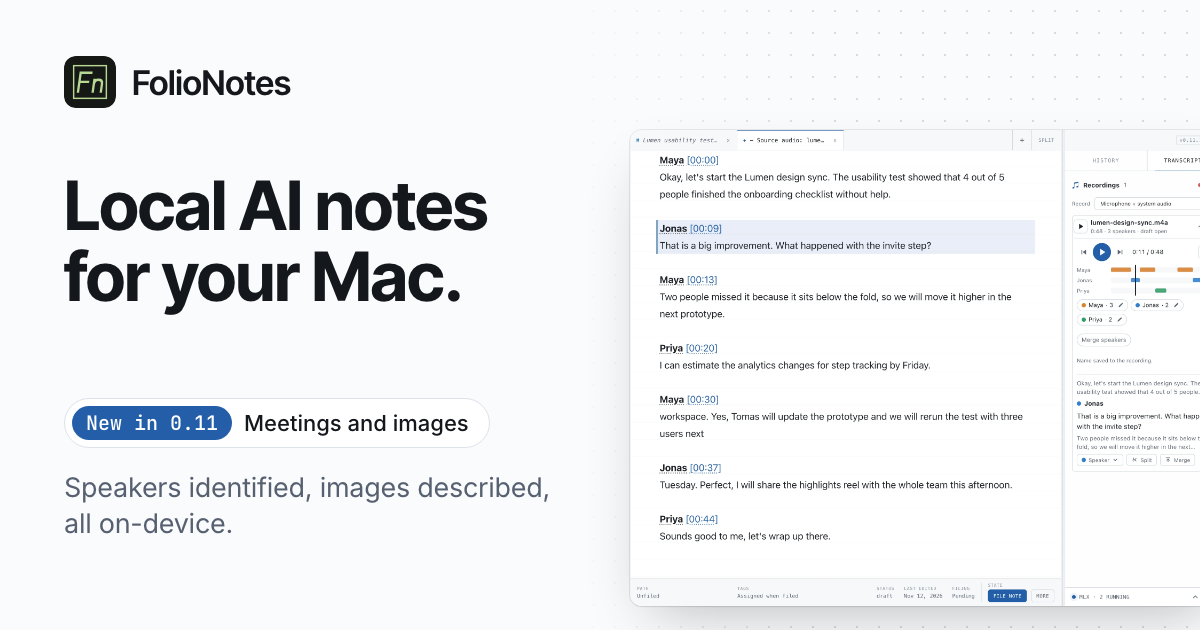
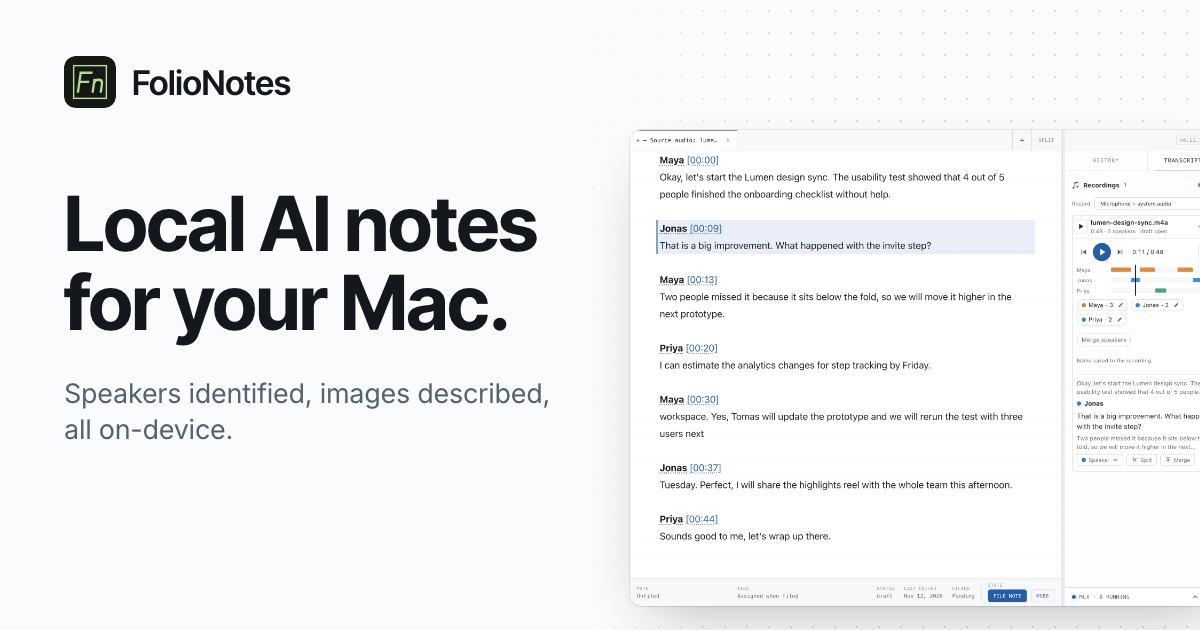
docs(site): add feature close-ups and punchier copy
Drop the version pill from the hero and share image, tighten the copy
and move technical detail to Requirements and FAQ. Show the speaker
player close-up, give OCR and image descriptions equal billing with
toolbar-to-result close-ups, and show the NO/EN toggle with a
before/after of the same demo note. Add the matching capture steps.

diff --git a/site/index.html b/site/index.html
@@ -4,7 +4,7 @@
 <meta charset="utf-8">
 <meta name="viewport" content="width=device-width, initial-scale=1">
 <title>FolioNotes — local AI notes for your Mac</title>
-<meta name="description" content="FolioNotes is a local-first Mac notetaker. One capture field, an on-device model files your notes as plain Markdown. Now with meeting recording, speaker identification, image descriptions, OCR and note translation, all on your Mac.">
+<meta name="description" content="FolioNotes is a local-first Mac notetaker. One capture field, an on-device model files your notes as plain Markdown. Record meetings with speaker names, read and describe your images, translate notes. All on your Mac.">
 <link rel="canonical" href="https://folionotes.no/">
 <meta name="color-scheme" content="light">
 <meta name="theme-color" content="#fafbfc">
@@ -12,14 +12,14 @@
 <meta property="og:type" content="website">
 <meta property="og:site_name" content="FolioNotes">
 <meta property="og:title" content="FolioNotes — local AI notes for your Mac">
-<meta property="og:description" content="Capture in one field. A local model files it as plain Markdown on your Mac. New: record and transcribe meetings with speaker names, describe images, OCR and translation.">
+<meta property="og:description" content="Capture in one field. A local model files it as plain Markdown on your Mac. Record meetings with speaker names, read and describe images, translate notes.">
 <meta property="og:url" content="https://folionotes.no/">
 <meta property="og:image" content="https://folionotes.no/assets/og-image.png">
 <meta property="og:image:width" content="1200">
 <meta property="og:image:height" content="630">
 <meta name="twitter:card" content="summary_large_image">
 <meta name="twitter:title" content="FolioNotes — local AI notes for your Mac">
-<meta name="twitter:description" content="Capture in one field. A local model files it as plain Markdown on your Mac. New: record and transcribe meetings with speaker names, describe images, OCR and translation.">
+<meta name="twitter:description" content="Capture in one field. A local model files it as plain Markdown on your Mac. Record meetings with speaker names, read and describe images, translate notes.">
 <meta name="twitter:image" content="https://folionotes.no/assets/og-image.png">
 <link rel="preconnect" href="https://fonts.googleapis.com">
 <link rel="preconnect" href="https://fonts.gstatic.com" crossorigin>
@@ -32,16 +32,15 @@
 <header class="nav">
   <div class="nav-in">
     <a class="nav-brand" href="#top" aria-label="FolioNotes home"><svg class="mark" viewBox="0 0 1024 1024" width="22" height="22" aria-hidden="true"><rect width="1024" height="1024" rx="220" fill="#161816"/><rect x="190" y="190" width="644" height="644" fill="none" stroke="#b7d892" stroke-width="28"/><g transform="translate(85 0) skewX(-8)" fill="none" stroke="#b7d892" stroke-width="46" stroke-linecap="square" stroke-linejoin="miter"><path d="M290 700V330H500M290 510H460"/><path d="M580 700V470M580 545C580 495 615 468 660 468C710 468 740 500 740 552V700"/></g></svg><span>FolioNotes</span></a>
-    <nav aria-label="Primary"><ul><li><a href="#overview">Overview</a></li><li><a href="#new">New in 0.11</a></li><li><a href="#features">Features</a></li><li><a href="#privacy">Privacy</a></li><li><a href="#specs">Requirements</a></li><li><a href="#faq">FAQ</a></li></ul></nav>
+    <nav aria-label="Primary"><ul><li><a href="#overview">Overview</a></li><li><a href="#ai">AI features</a></li><li><a href="#features">Features</a></li><li><a href="#privacy">Privacy</a></li><li><a href="#specs">Requirements</a></li><li><a href="#faq">FAQ</a></li></ul></nav>
     <a class="nav-dl" href="https://github.com/magwest1/folio/releases/latest/download/FolioNotes-arm64.dmg">Download</a>
   </div>
 </header>
 <main id="main">
 <section class="hero" id="top">
   <div class="hero-text">
-    <a class="pill" href="#new"><b>New in 0.11</b> Meetings and images</a>
     <h1>Capture once.<br>Your Mac files it.</h1>
-    <p class="sub">One Markdown capture field. A model running on your Mac decides where each note goes. Everything stays as plain files in a folder you own.</p>
+    <p class="sub">Type it once. Your Mac decides where it goes. Everything stays as plain files in a folder you own.</p>
     <div class="cta"><a class="btn btn-primary" href="https://github.com/magwest1/folio/releases/latest/download/FolioNotes-arm64.dmg"><svg class="ico" viewBox="0 0 24 24" width="18" height="18" fill="none" stroke="currentColor" stroke-width="2" stroke-linecap="round" stroke-linejoin="round" aria-hidden="true"><path d="M12 4v11M7 11l5 5 5-5M5 20h14"/></svg>Download for Mac</a><a class="btn btn-secondary" href="https://github.com/magwest1/folio">View on GitHub<svg class="ico" viewBox="0 0 24 24" width="16" height="16" fill="none" stroke="currentColor" stroke-width="2" stroke-linecap="round" stroke-linejoin="round" aria-hidden="true"><path d="M7 17L17 7M8 7h9v9"/></svg></a></div>
     <p class="fine">Apple Silicon · macOS 14 or later</p>
     <p class="fine"><span id="release-info" hidden></span> <a href="https://github.com/magwest1/folio/releases">All releases</a></p>
@@ -53,7 +52,7 @@
 <section class="band statement" id="overview" aria-labelledby="st-h">
   <div class="wrap center" id="privacy">
     <h2 id="st-h" class="huge m reveal">Your notes stay<br>on your Mac.</h2>
-    <p class="lead reveal">Filing, search, answers, transcription, speaker identification, image descriptions, OCR and translation all run on models stored on your machine. No account, no cloud service, no analytics.</p>
+    <p class="lead reveal">Filing, search, answers, meetings, images and translation all run on your Mac. No account. No cloud. No analytics.</p>
     <dl class="stats reveal">
       <div><dt>accounts</dt><dd>0</dd></div>
       <div><dt>cloud services</dt><dd>0</dd></div>
@@ -64,53 +63,61 @@
 </section>
 
 <section class="band alt" id="filing" aria-labelledby="filing-h"><div class="wrap look split">
-<div class="look-text reveal"><p class="eyebrow">Local LLM filing</p><h2 id="filing-h">One field. The model files it. You confirm.</h2><p>Press <kbd>Cmd</kbd> <kbd>Enter</kbd> and the selected local model reads the whole note and proposes a path, title, type and tags. Every capture stays one note; it is never split apart.</p><ul class="ticks"><li>Reuses your existing folders and tags instead of inventing new ones</li><li>Todos append to one todo list, daily notes to a note per day</li><li>Nothing is saved until you accept the proposal</li></ul></div>
+<div class="look-text reveal"><p class="eyebrow">Local LLM filing</p><h2 id="filing-h">One field. Filed for you.</h2><p>Write or paste, then press <kbd>Cmd</kbd> <kbd>Enter</kbd>. FolioNotes proposes a folder, title and tags. You say yes.</p><ul class="ticks"><li>Reuses your folders and tags</li><li>Todos land on one list, daily notes get a page per day</li><li>Nothing is saved until you accept</li></ul></div>
 <div class="look-media reveal"><img src="assets/screenshots/filing-dialog-light.webp" alt="The filing dialog proposing a path, title, type and tags for a note" width="1176" height="842" loading="lazy" decoding="async"></div></div></section>
 
-<section class="band" id="new" aria-labelledby="new-h">
+<section class="band" id="ai" aria-labelledby="meet-h"><div class="wrap look split">
+<div class="look-text reveal"><p class="eyebrow">On-device AI</p><h2 id="meet-h">Record it. Know who said what.</h2><p>Hit record on a call or drop in a file. Your Mac turns it into a transcript and labels every speaker. The audio never leaves your Mac.</p><ul class="ticks"><li><strong>A lane for every voice.</strong> See who spoke and when.</li><li><strong>Name them once.</strong> Every mention follows.</li><li><strong>Jump to any turn,</strong> or solo one speaker.</li><li><strong>Fix a wrong label</strong> in a click.</li></ul></div>
+<div class="look-media reveal"><img src="assets/screenshots/player-light.webp" class="tall" alt="The meeting player: play controls, one timeline lane per speaker with a playhead, colored speaker chips, a Merge speakers button and the current turn with Speaker, Split and Merge buttons" width="550" height="780" loading="lazy" decoding="async"></div></div></section>
+
+<section class="band alt" id="images" aria-labelledby="img-h">
   <div class="wrap">
-    <div class="new-head reveal"><p class="eyebrow">New in 0.11</p><h2 id="new-h" class="section-h">Meetings and images, understood on your Mac.</h2></div>
-    <div class="pair">
-      <article class="card reveal">
-        <h3>Record a meeting. Know who said what.</h3>
-        <p>Record the microphone, or in the desktop app also system audio, or import a file. Whisper transcribes on your Mac with a <code>[mm:ss]</code> timestamp on every paragraph.</p>
-        <ul class="ticks"><li>With the optional Sortformer model, up to 4 speakers are identified on-device</li><li>Rename or merge speakers; names are note variables, so every reference follows</li><li>Play the recording back in sync, jump between turns or solo one speaker</li></ul>
-        <p class="fine">Whisper large-v3-turbo about 1.61 GB, Sortformer about 236 MB. Both are optional downloads. System audio needs macOS 14.2 or later.</p>
-        <img src="assets/screenshots/transcription-crop-light.webp" alt="A meeting transcript with named speaker turns beside the player, which shows one lane per speaker, a playhead and speaker chips" width="2248" height="1782" loading="lazy" decoding="async">
+    <div class="new-head reveal"><p class="eyebrow">On-device AI</p><h2 id="img-h" class="section-h">Your images, understood.</h2><p class="lead sub-lead">Hover any image in a note. Two buttons do the rest.</p></div>
+    <div class="pair halves">
+      <article class="card half reveal">
+        <h3>Read the text.</h3>
+        <p>Recipe cards, slides, receipts, screenshots. Turn the words in a photo into text you can edit and search.</p>
+        <figure class="step"><figcaption><b>1</b> Click <em>Extract text</em></figcaption><div class="tool" style="--pos:71.4%"><span class="tool-label">Extract text</span><img src="assets/screenshots/ocr-toolbar-light.webp" alt="Close-up of the image toolbar over a recipe card photo: Copy, Download, Delete, Extract text (highlighted) and Describe image icons" width="440" height="172" loading="lazy" decoding="async"></div></figure>
+        <figure class="step"><figcaption><b>2</b> Copy it or insert it below</figcaption><img src="assets/screenshots/ocr-result-light.webp" alt="The extracted recipe text as Markdown with Copy, Insert below and Close buttons" width="1410" height="498" loading="lazy" decoding="async"></figure>
       </article>
-      <article class="card reveal">
-        <h3>See what is in your images.</h3>
-        <p>Choose Describe image in an image toolbar and a local vision model writes a short description for you to copy, insert below the image or use as alt text.</p>
-        <ul class="ticks"><li>Gemma 4 E4B or Qwen 3.5 4B, chosen in Settings &rarr; Models; no extra download if it is already installed</li><li>Descriptions are cached and searchable, like text extracted with LightOnOCR 3 1B</li><li>OCR tables become Markdown tables, and Download image saves the file</li></ul>
-        <p class="fine">Runs through MLX on your Mac. The image never leaves it.</p>
-        <img src="assets/screenshots/describe-crop-light.webp" alt="A whiteboard photo in a note with a generated image description below it and Copy, Insert below, Use as alt text and Close buttons" width="1514" height="1282" loading="lazy" decoding="async">
+      <article class="card half reveal">
+        <h3>Describe the picture.</h3>
+        <p>Whiteboards, sketches, photos. Get a short description for alt text, or so you can find the image later.</p>
+        <figure class="step"><figcaption><b>1</b> Click <em>Describe image</em></figcaption><div class="tool" style="--pos:84.1%"><span class="tool-label">Describe image</span><img src="assets/screenshots/describe-toolbar-light.webp" alt="Close-up of the image toolbar over a whiteboard sketch: Copy, Download, Delete, Extract text and Describe image (highlighted) icons" width="440" height="172" loading="lazy" decoding="async"></div></figure>
+        <figure class="step"><figcaption><b>2</b> Copy it, insert it, or use it as alt text</figcaption><img src="assets/screenshots/describe-result-light.webp" alt="A generated description of the whiteboard with Copy, Insert below, Use as alt text and Close buttons" width="1410" height="448" loading="lazy" decoding="async"></figure>
       </article>
     </div>
+    <p class="fine center reveal">Extracted text and descriptions are searchable. The image never leaves your Mac.</p>
   </div>
 </section>
 
-<section class="band alt" id="translate" aria-labelledby="translate-h"><div class="wrap look split flip">
-<div class="look-text reveal"><p class="eyebrow">Translation</p><h2 id="translate-h">Read it in your language.</h2><p>Turn on auto-translate for a note and read it in Norwegian or English with one toggle. The translated view is read-only and stays current in the background.</p><ul class="ticks"><li>Code, links and formatting are preserved</li><li>Translate and export notes and local drafts to English, Norwegian Bokm&aring;l, German, Spanish, French, Italian, Swedish or Danish</li><li>Uses your selected local generation model</li></ul></div>
-<div class="look-media reveal"><img src="assets/screenshots/translate-crop-light.webp" class="wide" alt="A note with the NO/EN toggle in its header showing a translated, read-only English view" width="1600" height="1300" loading="lazy" decoding="async"></div></div></section>
+<section class="band" id="translate" aria-labelledby="translate-h"><div class="wrap look">
+<div class="look-text reveal"><p class="eyebrow">Translation</p><h2 id="translate-h">Read it in your language.</h2><p>Flip a switch and any note reads in Norwegian or English. Your original stays untouched.</p></div>
+<div class="pair ba">
+<figure class="ba-item reveal"><figcaption><span>Before</span> Norwegian original</figcaption><div class="frame"><img src="assets/screenshots/translate-toggle-no-light.webp" alt="Note header with the auto-translate switch on and NO selected, title Møtenotater: Lumen-workshop med Solvik-teamet i Bergen" width="1600" height="152" loading="lazy" decoding="async"><img src="assets/screenshots/translate-no-light.webp" alt="The note body in Norwegian: Deltakere, Bakgrunn, Hovedpunkter" width="1600" height="500" loading="lazy" decoding="async"></div></figure>
+<figure class="ba-item reveal"><figcaption><span class="on">After</span> Press EN, read it in English</figcaption><div class="frame"><img src="assets/screenshots/translate-toggle-en-light.webp" alt="The same note header with EN selected, title Meeting notes: Lumen workshop with Solvik team in Bergen" width="1600" height="152" loading="lazy" decoding="async"><img src="assets/screenshots/translate-en-light.webp" alt="The same note body in English: Participants, Background, Main points" width="1600" height="500" loading="lazy" decoding="async"></div></figure>
+</div>
+<ul class="ticks inline reveal"><li>Code, links and formatting stay intact</li><li>Export notes to 8 languages</li><li>Runs on your Mac</li></ul>
+</div></section>
 
 <section class="band alt" id="search" aria-labelledby="search-h"><div class="wrap look split flip">
-<div class="look-text reveal"><p class="eyebrow">Search and Ask</p><h2 id="search-h">Find it, or ask it.</h2><p>Search combines metadata, lifecycle, relationships, keywords and EmbeddingGemma embeddings, including text extracted from and descriptions of your images. It never loads the larger answer model.</p><p>Ask uses the model you selected to write a grounded answer with links to the notes it cites.</p></div>
+<div class="look-text reveal"><p class="eyebrow">Search and Ask</p><h2 id="search-h">Find it, or ask it.</h2><p>Search by meaning or by keyword, images included. Ask for a written answer with links to the notes behind it.</p></div>
 <div class="look-media reveal"><div class="duo"><img src="assets/screenshots/search-pane-light.webp" alt="Hybrid search results across notes" width="618" height="1706" loading="lazy" decoding="async"><img src="assets/screenshots/ask-pane-light.webp" alt="An Ask answer with citations linking to local notes" width="618" height="1706" loading="lazy" decoding="async"></div></div></div></section>
 
 <section class="band" id="features" aria-labelledby="feat-h">
   <div class="wrap">
     <h2 id="feat-h" class="section-h reveal">And everything around it.</h2>
     <ul class="more compact reveal">
-      <li><h3>Record meetings</h3><p>Microphone, or in the desktop app also system audio on macOS 14.2 or later, for online calls. Import AAC, AIFF, FLAC, M4A, MP3 or WAV too.</p></li>
-      <li><h3>Timestamped transcripts</h3><p>Whisper large-v3-turbo writes an editable note. Playback follows the <code>[mm:ss]</code> timestamps.</p></li>
-      <li><h3>Note variables</h3><p>Define <code>key:: value</code> once and reuse <code>{{key}}</code> in the note, search and exports. Speaker names work this way.</p></li>
-      <li><h3>Image tools</h3><p>Extract text, describe, copy and download from the image toolbar. Tables from OCR become Markdown.</p></li>
+      <li><h3>Record meetings</h3><p>Capture the mic or an online call, or import an audio file.</p></li>
+      <li><h3>Timestamped transcripts</h3><p>An editable note that plays back in sync.</p></li>
+      <li><h3>Note variables</h3><p>Define a value once, reuse it everywhere. Speaker names too.</p></li>
+      <li><h3>Image tools</h3><p>Extract text, describe, copy and download, right from the image.</p></li>
       <li><h3>Version history</h3><p>Every note keeps earlier versions you can restore. Refiling keeps the history.</p></li>
       <li><h3>Links and backlinks</h3><p>Indexed from Markdown links and sources. Related notes become links only when you confirm.</p></li>
-      <li><h3>Small local models</h3><p>Qwen 3.5 4B, Llama 3.2 3B Instruct or Gemma 4 E4B through MLX, plus EmbeddingGemma for search.</p></li>
+      <li><h3>Small local models</h3><p>Pick the model that fits your Mac. Swap any time.</p></li>
       <li><h3>Markdown and PDF export</h3><p>Export filed notes and local drafts, optionally translated.</p></li>
       <li><h3>Lifecycle states</h3><p>Draft, stable or deprecated, with a stale-after date.</p></li>
-      <li><h3>Multiple bundles</h3><p>Separate note collections, switchable in Settings. Back up from Settings or copy the folder.</p></li>
+      <li><h3>Multiple bundles</h3><p>Keep work and personal apart. Back up from Settings.</p></li>
       <li><h3>Familiar shortcuts</h3><p>Cmd+B, Cmd+I, Cmd+K, Cmd+Shift+F and more. Click a tag to filter exactly.</p></li>
       <li><h3>Open storage</h3><p>Plain Markdown with frontmatter in a folder you own. Any editor or agent can read it.</p></li>
     </ul>

diff --git a/site/styles.css b/site/styles.css
@@ -196,9 +196,6 @@ h1,h2,h3{text-wrap:balance;margin:0;font-family:var(--display);font-weight:600;c
 .band{padding:clamp(48px,6.5vw,88px) 0}
 .statement{padding-bottom:clamp(48px,6.5vw,88px)}
 .section-h{margin-bottom:clamp(24px,3.5vw,44px)}
-.pill{display:inline-flex;align-items:center;gap:10px;margin:0 0 20px;padding:5px 14px 5px 5px;border:1px solid var(--line);border-radius:999px;background:#fff;color:var(--ink);font:500 13px var(--sans)}
-.pill:hover{text-decoration:none;background:var(--alt)}
-.pill b{background:var(--accent);color:#fff;border-radius:999px;padding:2px 10px;font:500 12px var(--mono)}
 .statement .fine{max-width:620px;margin:24px auto 0}
 .look-media{margin-top:clamp(28px,4vw,48px)}
 .look.split .look-media{margin:0}
@@ -236,8 +233,37 @@ h1,h2,h3{text-wrap:balance;margin:0;font-family:var(--display);font-weight:600;c
   .cols .specs div{grid-template-columns:1fr;gap:2px}
 }
 .card img{aspect-ratio:1514/1300;object-fit:cover;object-position:top}
-.hero .pill{margin:0 auto 4px}
 
 /* v0.11: cards with differently shaped screenshots; translation split uses a wider crop */
 .card img{aspect-ratio:auto;object-fit:initial}
 .look.split .look-media img.wide{max-width:min(100%,620px)}
+
+/* closer looks: player, image tools, translation */
+.look-text .ticks strong{font-weight:600;color:var(--ink)}
+.look.split .look-media img.tall{max-width:min(100%,380px)}
+.sub-lead{font-size:clamp(18px,2vw,22px);margin-top:-16px;margin-bottom:clamp(24px,3.5vw,40px)}
+.halves{align-items:stretch}
+.card.half p{margin-top:8px}
+.card.half h3{font-size:clamp(28px,3.2vw,38px)}
+.step{margin:20px 0 0;display:flex;flex-direction:column}
+.step figcaption{display:flex;align-items:center;gap:10px;margin-bottom:10px;font:500 15px/1.3 var(--sans);color:var(--ink)}
+.step figcaption b{flex:none;display:grid;place-items:center;width:24px;height:24px;border-radius:50%;background:var(--accent);color:#fff;font:500 12px var(--mono)}
+.step figcaption em{font-style:normal;font-weight:600;color:var(--accent)}
+.card.half .step img{margin:0;padding:0;width:100%;height:auto;border-radius:10px;box-shadow:0 0 0 1px var(--hair),0 8px 24px -14px rgba(20,23,28,.3)}
+.card.half .step:last-child{margin-top:auto;padding-top:20px}
+.ba{margin-top:clamp(24px,3.5vw,40px);gap:clamp(16px,2.5vw,28px)}
+.ba-item{margin:0}
+.ba-item figcaption{display:flex;align-items:center;gap:10px;margin-bottom:12px;font:500 15px var(--sans);color:var(--ink)}
+.ba-item figcaption span{font:500 12px var(--mono);text-transform:uppercase;letter-spacing:.06em;padding:3px 10px;border-radius:999px;background:var(--alt);border:1px solid var(--line);color:var(--muted)}
+.ba-item figcaption span.on{background:var(--accent);border-color:var(--accent);color:#fff}
+.ba-item img{width:100%;height:auto;border-radius:12px;box-shadow:var(--shot)}
+.ticks.inline{display:flex;flex-wrap:wrap;justify-content:center;gap:4px 28px;margin:28px 0 0}
+.ticks.inline li{border-top:0}
+@media (max-width:900px){.pair.ba{grid-template-columns:1fr}}
+.tool{position:relative;padding-top:38px}
+.tool-label{position:absolute;top:0;left:var(--pos);transform:translateX(-50%);white-space:nowrap;background:var(--accent);color:#fff;font:500 13px/1 var(--mono);padding:7px 11px;border-radius:7px}
+.tool-label::after{content:"";position:absolute;left:50%;bottom:-5px;width:10px;height:10px;background:var(--accent);transform:translateX(-50%) rotate(45deg);border-radius:2px}
+.card.half .tool img{border-radius:10px}
+.frame{background:#fff;border-radius:12px;box-shadow:var(--shot);overflow:hidden}
+.ba-item .frame img{border-radius:0;box-shadow:none}
+.ba-item .frame img+img{border-top:1px solid var(--line)}
